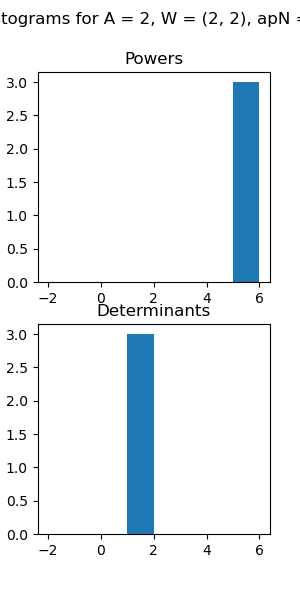
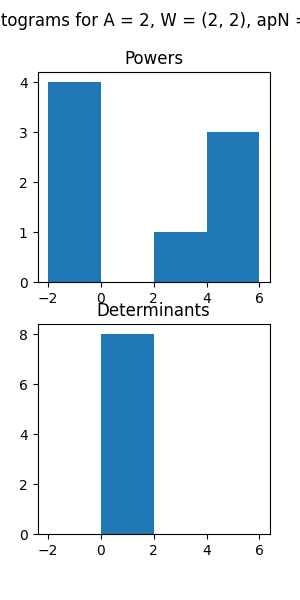
power stuff more

diff --git a/powerStuff.py b/powerStuff.py
@@ -13,8 +13,8 @@ deBRVisualize.ALLPRINT = False
 ALPHABET = 2
 WINDOWDIM = (2,2) #Tuple of (length,width)
 APNUM = deBRGen.gen_apNum(ALPHABET,WINDOWDIM) # Number of aperiodic windows
-ONLYSUCCESSFUL = True # True if we only want to pow = apN shifters
-ALLDATA = False # True if we want to see all shifters, not just successful ones
+ONLYSUCCESSFUL = False # True if we only want to pow = apN shifters
+ALLDATA = True# True if we want to see all shifters, not just successful ones
 WANTGRAPH = True # True if we want to graph the data
 WANTHISTOGRAM = True # True if we want to graph the histogram of the data
 #

diff --git a/deBRVisualize.py b/deBRVisualize.py
@@ -33,7 +33,7 @@ def test_deBR_powers(A,W, wantData = True, wantSuccessful = False, graphData = F
     det = int(det) # convert to int
     
     if wantSuccessful: # could clean up and remove a repetative codeblock here. Do in future?
-      if pow == apN:
+      if pow == apN or ((apN/pow)%1 == 0 and pow > 0):
         data.append([shifter[1], pow, det]) # metrics
         powers.append(pow);dets.append(det)
         output.write(f"Shifter: {shifter[0]} \n Composition: {shifter[1]}\n Power: {pow}\n Determinant: {det}\n  deBR: {deBR}\n")

diff --git a/deBRGen.py b/deBRGen.py
@@ -147,7 +147,8 @@ def gen_cycle(shifter,A,W,apN,l):
   initWin = initWin.reshape((-1, 1), order="F") # vec command
   expo = np.arange(W[0]*W[1])
   for i in range(l+1):
-    initWin = (shifter@initWin)%A
-    temp = expo@initWin
-    windowsHit.append(temp)
+    temp= (shifter@initWin)%A
+    temp2 = expo@initWin
+    initWin = np.copy(temp)
+    windowsHit.append(temp2)
   return(windowsHit)
